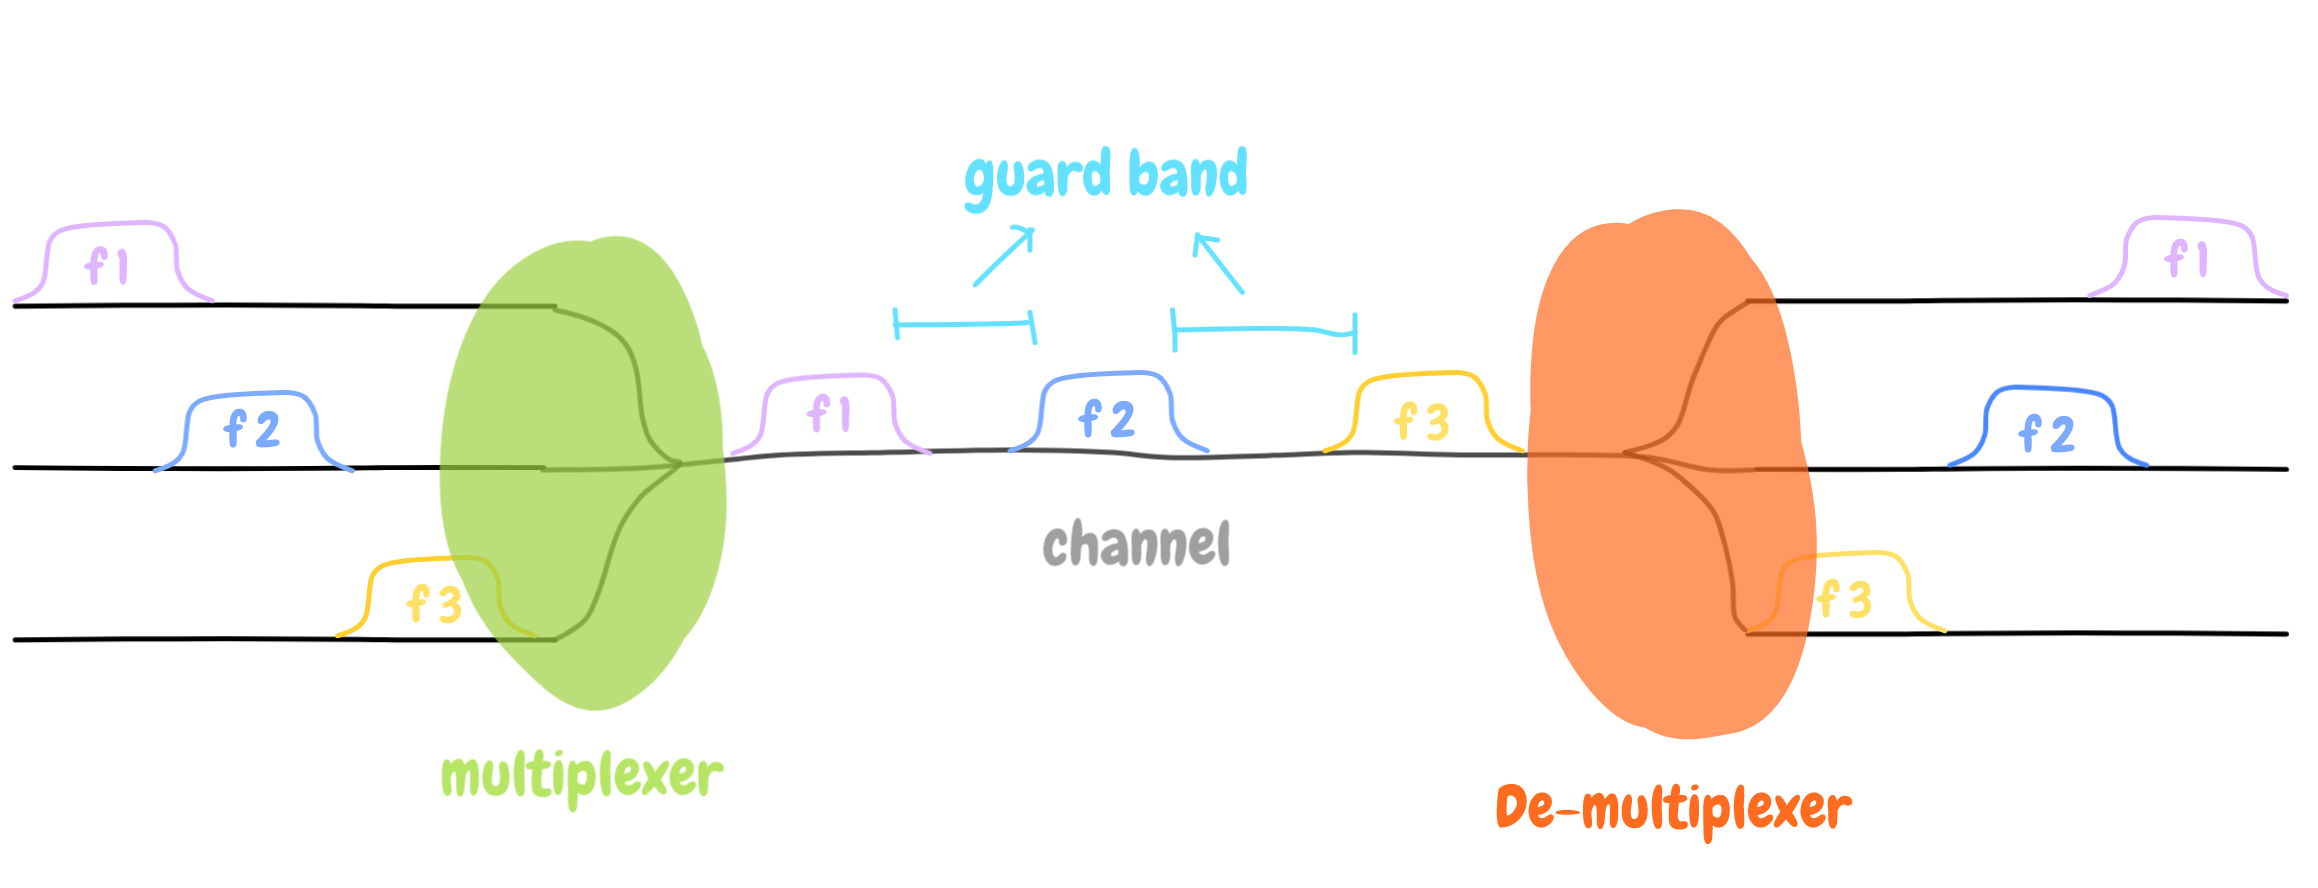
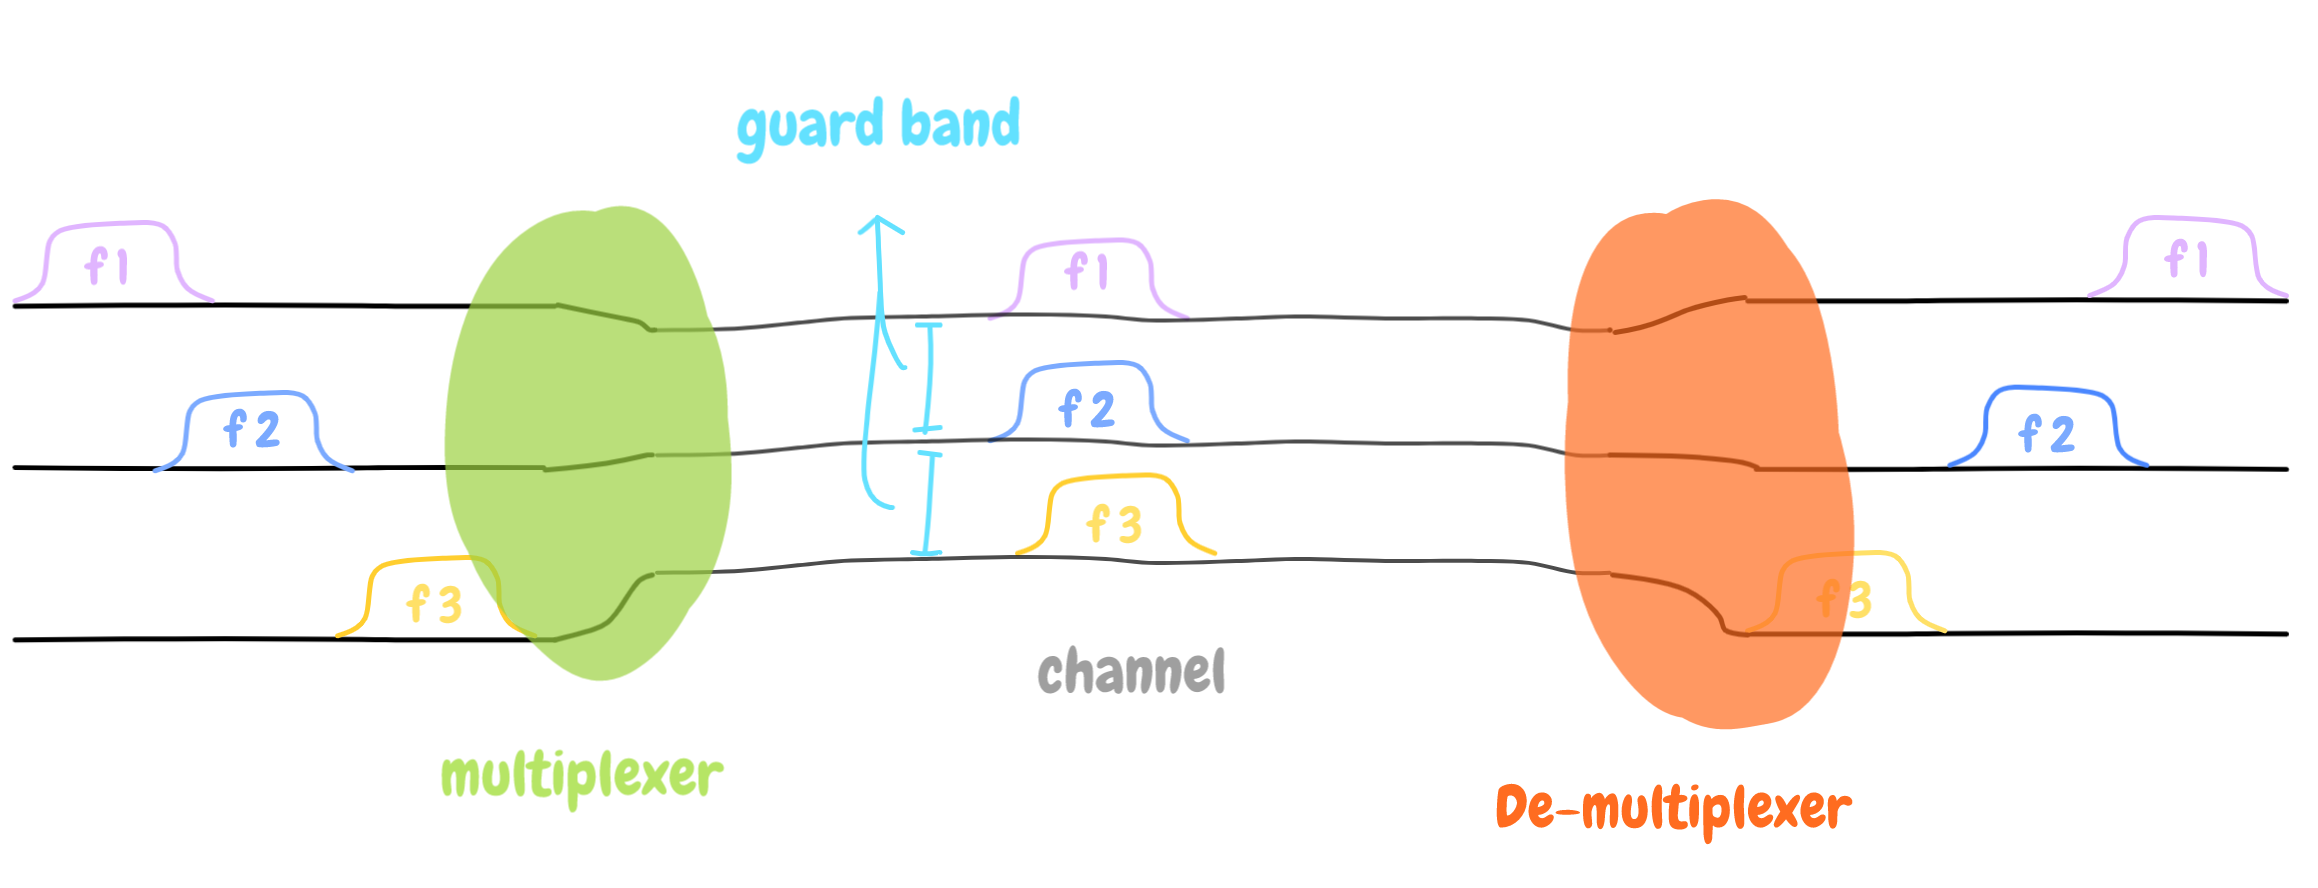
add fmd

diff --git a/subwebsite/network/osimodel.html b/subwebsite/network/osimodel.html
@@ -168,7 +168,7 @@
                                             <br>FDM is used for analog signals. This technology is utilized when the carrier is frequency. It might be easier to understand by looking at the following picture. 
                                             <img src="http://loophole.studio/image/osi_model/physical_layer/fdm.png" id="fdm">
                                             <br>
-                                            Spectrum is divided into different channels, and a frequency known as guard band is used to separate them.
+                                            Frequency spectrum is divided into logical channels, and a frequency known as guard band is used to separate them and to avoid overlapping.
 
                                         </ul>
                                         <ul>
